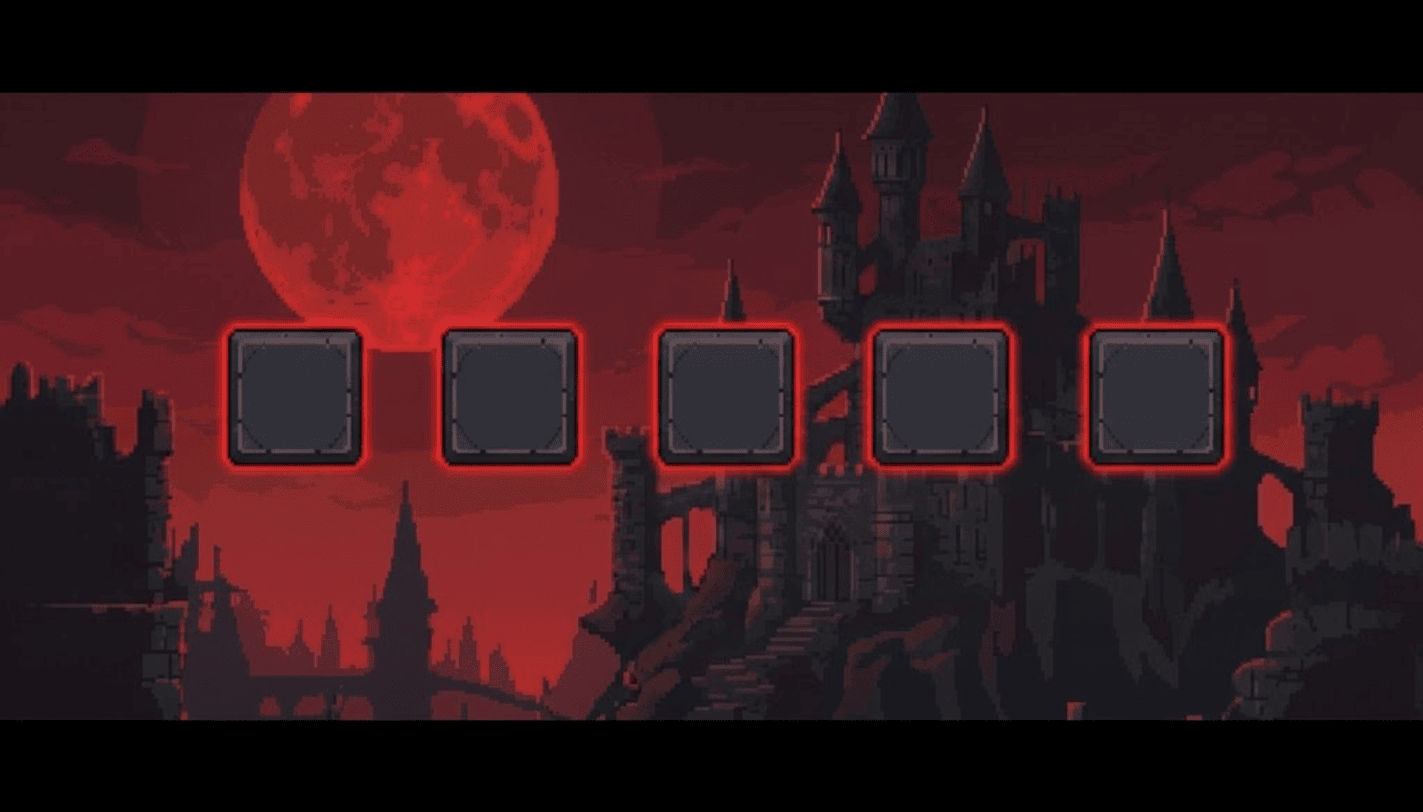
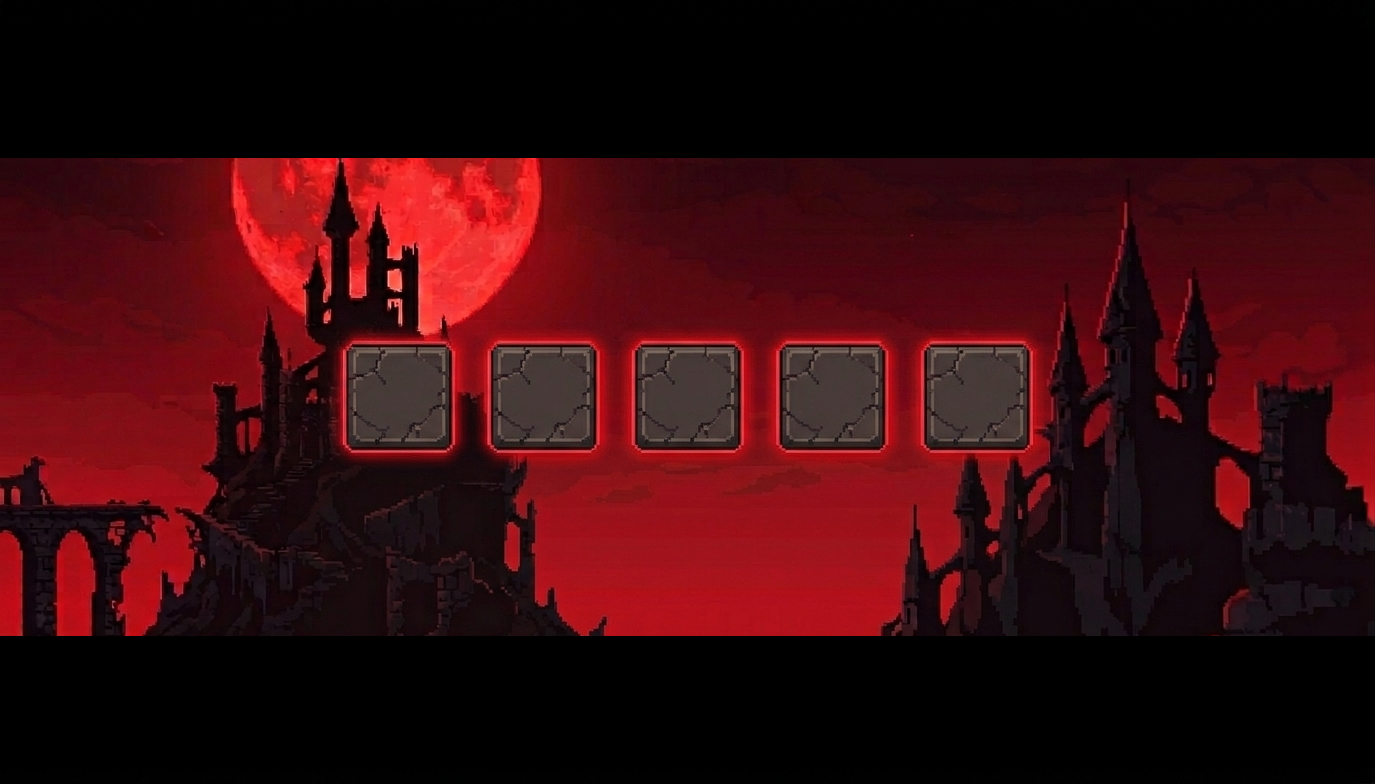
update

diff --git a/libs/components/summary.py b/libs/components/summary.py
@@ -1,20 +1,12 @@
 import pygame
 from libs.components.ui import Button
-
-from ..db.playerDb import PlayerStats
 from ..db.plot_func import Plotter
-
-from pygame.locals import (
-    KEYDOWN,
-    K_ESCAPE,
-    QUIT
-)
+from pygame.locals import KEYDOWN, K_ESCAPE, QUIT
 
 class Summary:
     def __init__(self, sys, screen):
         self.sys = sys
         self.screen = screen
-
         self.plotting_error = False
 
         try:
@@ -23,45 +15,77 @@ class Summary:
         except ValueError:
             self.plotting_error = True
 
+        self.show_health = True
+        self.show_points = True
+
     def show(self):
         if not self.plotting_error:
             back_b = Button(40, 635, 150, 60, "BacK", 32)
             next_b = Button(1080, 635, 150, 60, "Next", 32)
-            
+            health_b = Button(430, 635, 180, 60, "Health", 24)
+            points_b = Button(655, 635, 180, 60, "Points", 24)
+
             imgs = [pygame.transform.scale(pygame.image.load(i), (760, 580)) for i in self.adr_]
             imgs[-1] = pygame.transform.scale(pygame.image.load(self.adr_[-1]), (1200, 580))
 
             page = 0
             running = True
+
             while running:
                 for event in pygame.event.get():
                     if event.type == QUIT:
                         running = False
+
                     if event.type == KEYDOWN:
                         if event.key == K_ESCAPE:
                             running = False
+
                     if back_b.is_clicked(event):
                         if page > 0:
                             page -= 1
                         else:
                             running = False
+
                     if next_b.is_clicked(event):
                         if page < len(imgs) - 1:
                             page += 1
-                    # print(page)
+
+                    if page == 2:
+                        if health_b.is_clicked(event):
+                            # print("l")
+                            self.show_health = not self.show_health
+                            self.this_plotter.get_lines_plot(self.show_health, self.show_points)
+
+                        if points_b.is_clicked(event):
+                            # print("r")
+                            self.show_points = not self.show_points
+                            self.this_plotter.get_lines_plot(self.show_health, self.show_points)
 
                 self.screen.fill((0, 0, 0))
-                pygame.draw.rect(self.screen, (255, 255 ,255), (0, 0, 2000, 590))
-                pygame.draw.rect(self.screen, (200, 0 ,0), (0, 590, 2000, 8))
+                pygame.draw.rect(self.screen, (255, 255, 255), (0, 0, 2000, 590))
+                pygame.draw.rect(self.screen, (200, 0, 0), (0, 590, 2000, 8))
 
                 screen_width = self.screen.get_width()
-                img = imgs[page]
+
+                if page == 2:
+                    img = pygame.transform.scale(pygame.image.load(self.adr_[2]).convert(), (760, 580))
+                else:
+                    img = imgs[page]
+
                 x_pos = (screen_width - img.get_width()) // 2
                 self.screen.blit(img, (x_pos, 0))
 
                 back_b.create(self.screen)
                 next_b.create(self.screen)
+
+                if page == 2:
+                    health_b.color = (0, 255, 0) if self.show_health else (100, 100, 100)
+                    points_b.color = (0, 255, 0) if self.show_points else (100, 100, 100)
+                    health_b.create(self.screen)
+                    points_b.create(self.screen)
+
                 pygame.display.flip()
+
         else:
             back_b = Button(40, 635, 150, 60, "BacK", 32)
 
@@ -76,8 +100,7 @@ class Summary:
 
                 self.screen.fill((0, 0, 0))
                 self.sys.paragraph(450, 300, 100, 100, "More data required !", (255, 255, 255), 40)
-                self.sys.paragraph(120, 370, 100, 100, "You need to play at least l game and upgrade your character to view summary", (255, 255, 255), 30)
+                self.sys.paragraph(120, 370, 100, 100, "You need to play at least 1 game and upgrade your character to view summary", (255, 255, 255), 30)
 
                 back_b.create(self.screen)
-
                 pygame.display.flip()

diff --git a/libs/db/plot_func.py b/libs/db/plot_func.py
@@ -68,38 +68,47 @@ class Plotter:
         plt.savefig(self.plt_adr[1], dpi=600, bbox_inches='tight')
         plt.clf()
 
-    def get_lines_plot(self):
+    def get_lines_plot(self, show_health=True, show_points=True):
         plt.figure()
+
+        if not show_health and not show_points:
+            plt.text(0.5, 0.5, "No data selected",
+                    ha='center', va='center', fontsize=20)
+            plt.xlim(0, 1)
+            plt.ylim(0, 1)
+            plt.title('Player In-Game health x points received')
+            plt.axis('off')
+            plt.savefig(self.plt_adr[2], dpi=300, bbox_inches='tight')
+            plt.close()
+            return
+
         x = np.arange(len(self.in_game_ts_df))
-
         width = 0.35
-        plt.plot(x - width/2, self.in_game_ts_df['health'], label='Health')
-        plt.plot(x + width/2, self.in_game_ts_df['points'], label='Points')
 
-        # in_game_ts_df
+        if show_health:
+            plt.plot(x - width/2, self.in_game_ts_df['health'], label='Health')
+
+        if show_points:
+            plt.plot(x + width/2, self.in_game_ts_df['points'], label='Points')
 
         plt.xticks(x[::5], self.in_game_ts_df['time_stamp'][::5])
-
         plt.xticks(fontsize=7, rotation=45)
         plt.xlabel('Time (seconds)')
         plt.ylabel('Amount')
 
         zero_points = self.in_game_ts_df[self.in_game_ts_df['time_stamp'] == 0]
-        # print(zero_points)
 
         game = 1
-        for ts in zero_points['id']-1:
-            # print(ts)
+        for ts in zero_points['id'] - 1:
             plt.axvline(x=ts, color='red', linestyle='--')
-            plt.text(ts+0.25, plt.ylim()[1]-45, f'game {game}', color='red', fontsize=10, rotation=270)
-            game+=1
-        game = 0
+            plt.text(ts + 0.25, plt.ylim()[1] - 45, f'game {game}', color='red', fontsize=10, rotation=270)
+            game += 1
 
         plt.title('Player In-Game health x points received')
         plt.legend()
-        # plt.show()
-        plt.savefig(self.plt_adr[2], dpi=600, bbox_inches='tight')
-        plt.clf()
+
+        plt.savefig(self.plt_adr[2], dpi=300, bbox_inches='tight')
+        plt.close()
 
     def get_table_plot(self):
         plt.figure()

diff --git a/libs/components/menu.py b/libs/components/menu.py
@@ -44,10 +44,10 @@ class main_menu:
         bg = pygame.transform.scale_by(bg, 1.1) # scale bg image up by 1.1
         # screen.blit(bg, (0, 0))
 
-        play_b = Button(120, 280, 100, 60, "Play", 32)
-        upgrade_b = Button(118, 365, 170, 60, "Upgrade", 32)
-        summary_b = Button(110, 450, 190, 60, "Summary", 32)
-        quit_b = Button(120, 530, 100, 60, "Quit", 32)
+        play_b = Button(195, 290, 100, 60, "Play", 32)
+        upgrade_b = Button(183, 370, 170, 60, "Upgrade", 32)
+        summary_b = Button(185, 445, 190, 60, "Summary", 32)
+        quit_b = Button(195, 520, 100, 60, "Quit", 32)
 
         running = True
         while running:
@@ -93,7 +93,7 @@ class main_menu:
             # screen.fill((0, 0, 0))
             self.screen.blit(bg, (0, 0))
             
-            self.sys.paragraph(70, 170, 100, 100, "DarK Impact", (255, 255, 255), 65)
+            self.sys.paragraph(170, 190, 100, 100, "DarK Impact", (255, 255, 255), 65)
 
             # if self.error_summary:
                 # self.sys.paragraph_normal(290, 460, 100, 100, "You must collect enough data to view summary", (255, 255, 255), 45)

diff --git a/libs/components/level_selection.py b/libs/components/level_selection.py
@@ -33,13 +33,13 @@ class Selection:
         bg = Background("menu", "selection").get_bg()
         bg = pygame.transform.scale_by(bg, 1.1)
         
-        back_b = Button(12, 580, 190, 60, "BacK", 42)
+        back_b = Button(12, 640, 190, 60, "BacK", 42)
         
-        lv1 = Button(290 - 60, 330, 70, 70, "l", 50)
-        lv2 = Button(528 - 102, 330, 70, 70, "ll", 50)
-        lv3 = Button(765 - 145, 330, 70, 70, "lll", 50)
-        lv4 = Button(1000 - 185, 330, 70, 70, "lV", 50)
-        lv5 = Button(1235 - 230, 330, 70, 70, "V", 50)
+        lv1 = Button(344, 350, 70, 70, "l", 50)
+        lv2 = Button(528 - 47, 350, 70, 70, "ll", 50)
+        lv3 = Button(765 - 148, 350, 70, 70, "lll", 50)
+        lv4 = Button(755, 350, 70, 70, "lV", 50)
+        lv5 = Button(890, 350, 70, 70, "V", 50)
 
         running = True
         while running:

diff --git a/libs/system_lib.py b/libs/system_lib.py
@@ -63,5 +63,5 @@ class Background:
         
     def get_bg(self):
         b_g = pygame.image.load(f"./pictures/{self.folder}/{self.f_name}.png")
-        b_g = pygame.transform.scale_by(b_g, 0.819) # scale bg image up by 1.1
+        b_g = pygame.transform.scale_by(b_g, 0.86)
         return b_g
